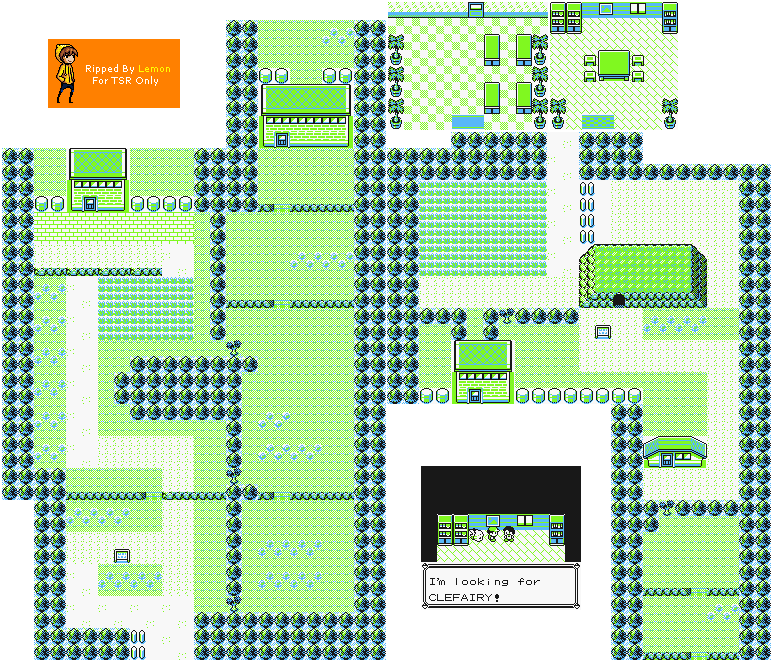
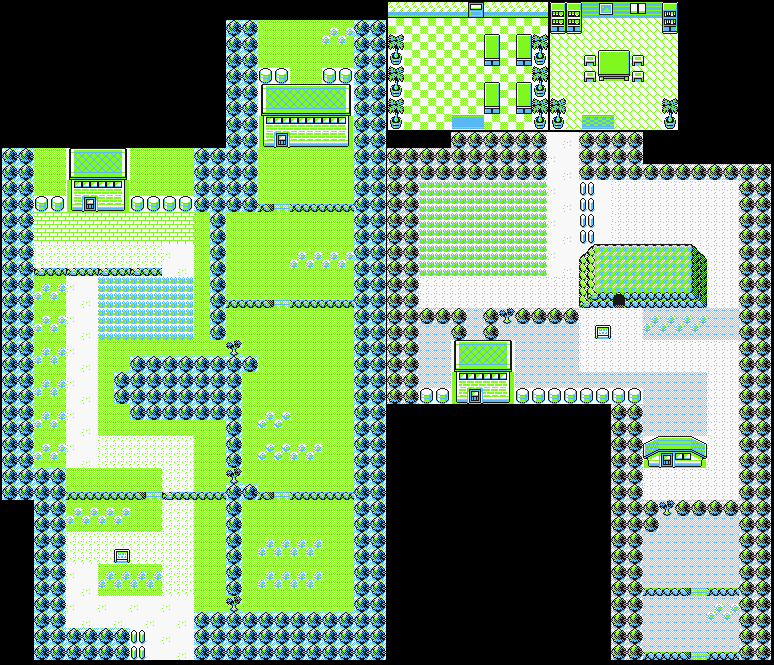
完成 route02後半部

diff --git a/start/js/levels.route02.js b/start/js/levels.route02.js
@@ -55,16 +55,18 @@ class Route02 extends GameSystem.Classes.Level
         pushItem("route02",9,30,"viridianCity",17,0);
         pushItem("route02",10,30,"viridianCity",18,0);
         pushItem("route02",5,3,"route02House",5,7);
-        // pushItem("palletTown",13,3,"route02",10,39)
-        // pushItem("palletTown",14,3,"route02",11,39);
     }
     initSubLevels()
     {
         let house=new GameSystem.Classes.Levels.Route02.House();
         this.subLevels.push(house);
         Framework.Game.addNewLevel({"route02House":house});
+        let part2=new GameSystem.Classes.Levels.Route02.Part2();
+        this.subLevels.push(part2);
+        Framework.Game.addNewLevel({"route02Part2":part2});
         for(let level of this.subLevels)
             level.parentLevel=this;
+
     }
 }
 GameSystem.Classes.Levels.Route02.House=
@@ -102,7 +104,7 @@ class House extends GameSystem.Classes.Level
         var pushItem=(map1,x1,y1,map2,x2,y2)=>this.gates.push(newConnectionItem(map1,x1,y1,map2,x2,y2));
         pushItem("route02",5,3,"route02House",5,7);
         pushItem("route02",5,3,"route02House",4,7);
-        //pushItem("route02Part2",4,3,"route02House",5,0);
+        pushItem("route02Part2",4,3,"route02House",5,0);
     }
     initObstacles()
     {
@@ -114,5 +116,57 @@ class House extends GameSystem.Classes.Level
         this.obstacles.push(new CS.Rectangle({x:8,y:3},{x:8,y:2}));//桌子?
         this.obstacles.push(new CS.Rectangle({x:9,y:2},{x:9,y:7}));//右中樹
 
+    }
+}
+GameSystem.Classes.Levels.Route02.Part2=
+class Route02Part2 extends GameSystem.Classes.Level
+{
+    load ()
+    {
+        super.load();
+        var GS=GameSystem,CS=GS.Classes,Point=CS.Point,Position=CS.Position;
+
+        
+        this.mapImage=new CS.Image(define.mapImagePath + 'routes/route02.png',{cutStartPosition:new Point(387,131),cutSize:new Position(23,26)});
+        this.map =new  Framework.Scene();
+        this.map.attach(this.mapImage);
+        this.rootScene.attach(this.map);
+        this.music=Load.audio(define.musicPath+"background/106 The Road To Viridian City From Palette.mp3");
+        this.music.autoplay=true;
+        this.music.loop=true;
+        this.size.pos1=new Position(2,0);
+        this.size.pos2=new Position(11,12);
+
+
+        this.map.x=GS.protagonist._screenPosition.toPoint().x-GS.protagonist.position.toPoint().x;
+        this.map.y=GS.protagonist._screenPosition.toPoint().y-GS.protagonist.position.toPoint().y;
+
+        GS.Manager.Key.keyInput=this.keyInput;
+        this.rootScene.attach(GS.protagonist.image);
+        
+            
+    }
+    initBattleFields(){
+        var GS=GameSystem,CS=GS.Classes,Rectangle=CS.Rectangle,Position=CS.Position,Occurrence=CS.Occurrence,BattleField=CS.BattleField,DEX=GameSystem.Classes.PokemonType.Dictionary;
+        var addOccur=field=>{field.addOccurrence(new Occurrence(DEX["波波"], 3, 7, 30));field.addOccurrence(new Occurrence(DEX["小拉達"], 3, 4, 40));field.addOccurrence(new Occurrence(DEX["尼多蘭"], 3, 6, 15));field.addOccurrence(new Occurrence(DEX["尼多蘭"], 3, 6, 15))};
+        var nField=(x1,y1,x2,y2)=>new BattleField(new Rectangle(new Position(x1,y1),new Position(x2,y2)));
+        var pushField=(x1,y1,x2,y2)=>{let f=nField(x1,y1,x2,y2);addOccur(f);this.battleFields.push(f);};
+        pushField(2,8,9,3);
+    
+    }
+    initGates()
+    {
+        var GS = GameSystem,CS = GS.Classes;
+        var newConnectionItem=(map1,x1,y1,map2,x2,y2)=>new CS.Connection(new CS.MapPosition(map1,new CS.Position(x1,y1)),new CS.MapPosition(map2,new  CS.Position(x2, y2)));
+        var pushItem=(map1,x1,y1,map2,x2,y2)=>this.gates.push(newConnectionItem(map1,x1,y1,map2,x2,y2));
+        pushItem("route02Part2",5,13,"route02House",5,0);
+    }
+    initObstacles()
+    {
+        var GS=GameSystem,CS=GS.Classes;
+        this.obstacles.push(new CS.Rectangle({x:2,y:2},{x:9,y:0}));//左上樹
+        this.obstacles.push(new CS.Rectangle({x:0,y:16},{x:1,y:1}));//左樹
+        this.obstacles.push(new CS.Rectangle({x:2,y:16},{x:4,y:11}));//房屋左
+        this.obstacles.push(new CS.Rectangle({x:6,y:16},{x:12,y:11}));//房屋右
     }
 }
